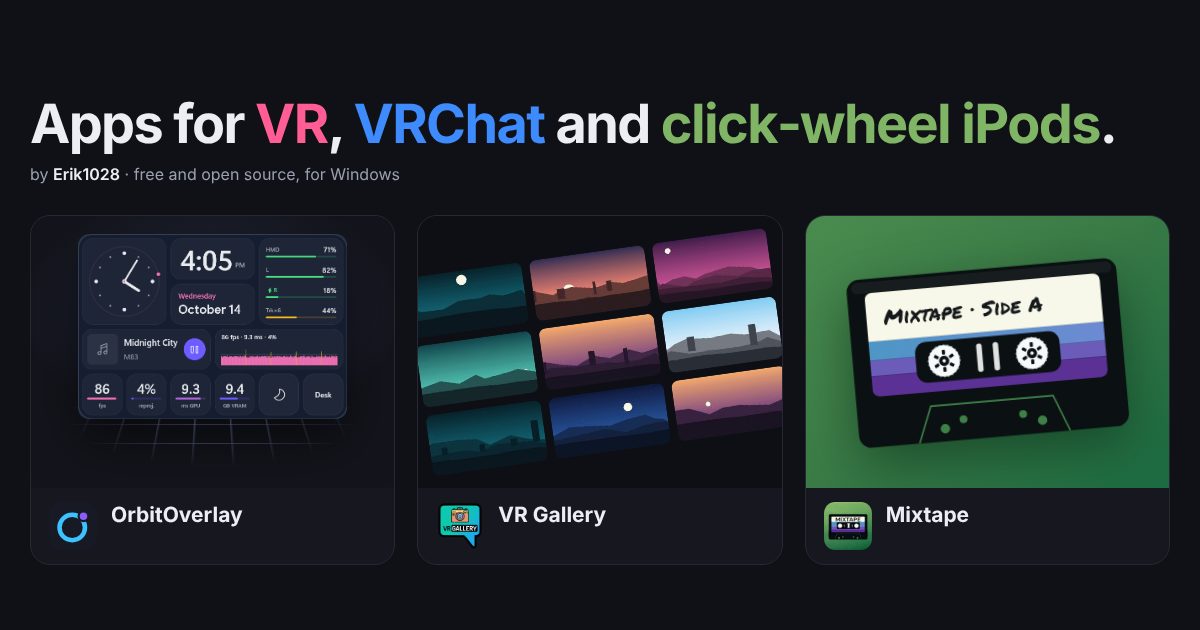
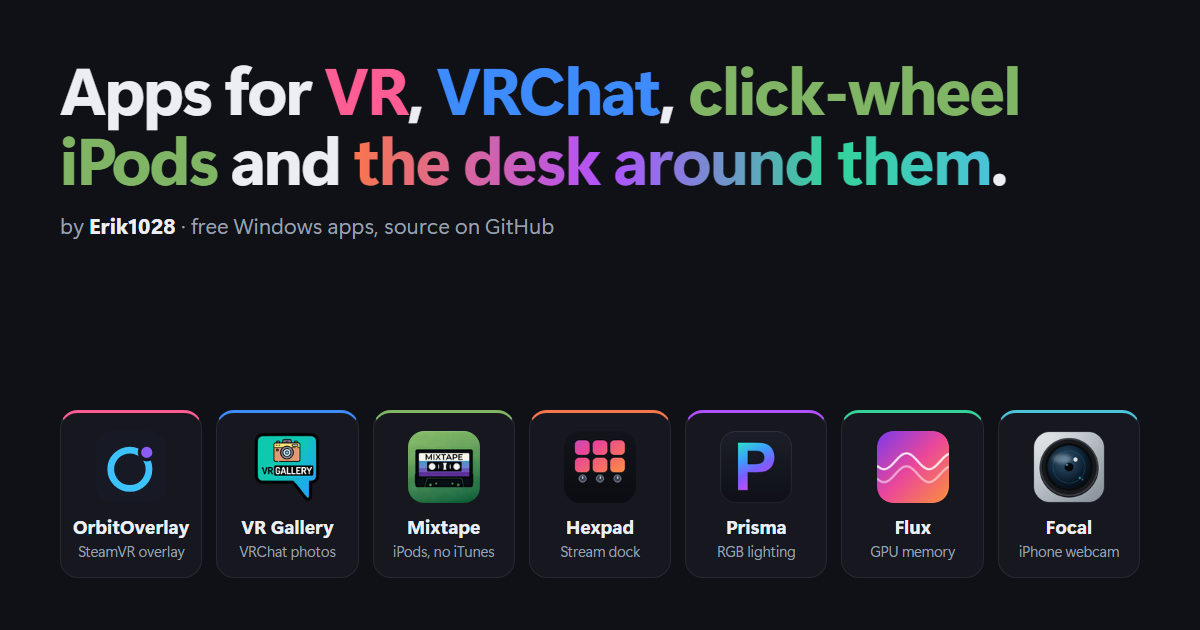
Add Hexpad, Prisma, Flux and Focal to the index
Seven apps now: OrbitOverlay's card spans two columns so they fill two
rows of four (two columns on tablets, one on phones). The new cards show
each thing itself in its app's colour - Hexpad's keys as Hexpad renders
them (falling asleep into its synthwave clock on hover), Prisma's RGB
fans, Flux's own window with demo data, Focal's iPhone filming for the
PC - and get their version and date from GitHub like the others. The
headline, description, structured data, sitemap and link preview now
cover all seven; the byline no longer says "open source" for all of them,
since Hexpad has no licence file yet. The old 256 px card icons are now
96 px.

diff --git a/index.html b/index.html
@@ -3,25 +3,27 @@
 <head>
 <meta charset="utf-8">
 <meta name="viewport" content="width=device-width, initial-scale=1">
-<title>Erik1028 · apps for VR, VRChat and click-wheel iPods</title>
-<meta name="description" content="Apps for VR, VRChat and click-wheel iPods by Erik1028: OrbitOverlay, VR Gallery and Mixtape. Free and open source, for Windows.">
+<title>Erik1028 · apps for VR, VRChat, iPods and the desk around them</title>
+<meta name="description" content="Free Windows apps by Erik1028: OrbitOverlay (SteamVR overlay), VR Gallery (VRChat photo album), Mixtape (click-wheel iPods), Hexpad (Ajazz stream dock), Prisma (RGB lighting), Flux (GPU memory monitor) and Focal (iPhone as a webcam).">
 <link rel="canonical" href="https://erik1028.github.io/">
 <meta name="author" content="Erik1028">
 <meta property="og:type" content="website">
 <meta property="og:site_name" content="Erik1028">
-<meta property="og:title" content="Apps for VR, VRChat and click-wheel iPods">
-<meta property="og:description" content="Apps for VR, VRChat and click-wheel iPods: OrbitOverlay, VR Gallery and Mixtape. Free and open source, for Windows.">
+<meta property="og:title" content="Apps for VR, VRChat, iPods and the desk around them">
+<meta property="og:description" content="OrbitOverlay, VR Gallery, Mixtape, Hexpad, Prisma, Flux and Focal: free Windows apps by Erik1028.">
 <meta property="og:image" content="https://erik1028.github.io/og.png">
 <meta property="og:url" content="https://erik1028.github.io/">
 <meta name="twitter:card" content="summary_large_image">
 <meta name="theme-color" content="#101116">
-<script type="application/ld+json">{"@context": "https://schema.org", "@graph": [{"@type": "WebSite", "@id": "https://erik1028.github.io/#site", "name": "Erik1028", "url": "https://erik1028.github.io/", "inLanguage": "en", "author": {"@id": "https://erik1028.github.io/#erik"}}, {"@type": "Person", "@id": "https://erik1028.github.io/#erik", "name": "Erik1028", "url": "https://github.com/Erik1028", "sameAs": ["https://github.com/Erik1028"]}, {"@type": "ItemList", "name": "Apps by Erik1028", "itemListElement": [{"@type": "ListItem", "position": 1, "name": "OrbitOverlay", "url": "https://erik1028.github.io/OrbitOverlay/"}, {"@type": "ListItem", "position": 2, "name": "VR Gallery", "url": "https://erik1028.github.io/VRGallery/"}, {"@type": "ListItem", "position": 3, "name": "Mixtape", "url": "https://erik1028.github.io/Mixtape/"}]}]}</script>
+<script type="application/ld+json">{"@context": "https://schema.org", "@graph": [{"@type": "WebSite", "@id": "https://erik1028.github.io/#site", "name": "Erik1028", "url": "https://erik1028.github.io/", "inLanguage": "en", "author": {"@id": "https://erik1028.github.io/#erik"}}, {"@type": "Person", "@id": "https://erik1028.github.io/#erik", "name": "Erik1028", "url": "https://github.com/Erik1028", "sameAs": ["https://github.com/Erik1028"]}, {"@type": "ItemList", "name": "Apps by Erik1028", "itemListElement": [{"@type": "ListItem", "position": 1, "name": "OrbitOverlay", "url": "https://erik1028.github.io/OrbitOverlay/"}, {"@type": "ListItem", "position": 2, "name": "VR Gallery", "url": "https://erik1028.github.io/VRGallery/"}, {"@type": "ListItem", "position": 3, "name": "Mixtape", "url": "https://erik1028.github.io/Mixtape/"}, {"@type": "ListItem", "position": 4, "name": "Hexpad", "url": "https://erik1028.github.io/ajazz-dock/"}, {"@type": "ListItem", "position": 5, "name": "Prisma", "url": "https://erik1028.github.io/Prisma/"}, {"@type": "ListItem", "position": 6, "name": "Flux", "url": "https://erik1028.github.io/Flux/"}, {"@type": "ListItem", "position": 7, "name": "Focal", "url": "https://erik1028.github.io/focal/"}]}]}</script>
 <link rel="icon" href="img/orbitoverlay.svg" type="image/svg+xml">
 <script>try{if(!matchMedia("(prefers-reduced-motion: reduce)").matches)document.documentElement.classList.add("motion")}catch(e){}</script>
 <link rel="preload" href="fonts/permanent-marker.woff2" as="font" type="font/woff2" crossorigin>
 <style>
-/* An index of three apps. Each card shows the thing itself (the watch over a VR floor, a wall of VRChat photos,
-   a hand-labelled tape) in its own app's accent; the page around them stays quiet. */
+/* An index of the apps. Each card shows the thing itself (the watch over a VR floor, a wall of VRChat photos,
+   a hand-labelled tape, the stream dock's keys, RGB fans, Flux's own window, a phone filming) in its own
+   app's accent; the page around them stays quiet. OrbitOverlay's card is twice as wide, so the seven fill
+   two rows of four. */
 @font-face{font-family:"Permanent Marker";src:url(fonts/permanent-marker.woff2) format("woff2");font-display:swap}
 :root{
   color-scheme:dark;
@@ -33,13 +35,18 @@
 *{box-sizing:border-box}
 body{margin:0;background:var(--bg);color:var(--text);font-family:var(--sans);font-size:17px;line-height:1.55;-webkit-font-smoothing:antialiased}
 main{max-width:1180px;margin:0 auto;padding-block:72px 48px;padding-left:max(20px,env(safe-area-inset-left,0px));padding-right:max(20px,env(safe-area-inset-right,0px))}
-h1{font-family:var(--display);font-size:clamp(38px,6.2vw,76px);line-height:1.04;margin:0;letter-spacing:-0.03em;max-width:13em;text-wrap:balance}
+h1{font-family:var(--display);font-size:clamp(36px,5.4vw,66px);line-height:1.05;margin:0;letter-spacing:-0.03em;max-width:17em;text-wrap:balance}
 h1 span{color:var(--acc)}
+h1 .desk{background:linear-gradient(90deg,#f8764f,#b151ff 40%,#34d399 75%,#4cc3d9);-webkit-background-clip:text;background-clip:text;color:transparent;-webkit-box-decoration-break:clone;box-decoration-break:clone}
 .by{color:var(--dim);margin:18px 0 0;font-size:17px}
 .by a{color:var(--text);text-decoration:none;font-weight:600}
 .by a:hover{text-decoration:underline}
-.apps{display:grid;grid-template-columns:repeat(3,minmax(0,1fr));gap:22px;margin-top:48px}
-@media (max-width:900px){.apps{grid-template-columns:1fr;max-width:560px}}
+.apps{display:grid;grid-template-columns:repeat(4,minmax(0,1fr));gap:22px;margin-top:48px}
+.app.wide{grid-column:span 2}
+.app.wide .visual{aspect-ratio:auto;flex:1;min-height:200px}
+@media (min-width:1101px){.app:not(.wide) .meta{grid-template-columns:40px minmax(0,1fr);gap:12px;padding:16px 16px 18px}.app:not(.wide) .meta img{width:40px;height:40px;border-radius:9px}}
+@media (max-width:1100px){.apps{grid-template-columns:repeat(2,minmax(0,1fr))}}
+@media (max-width:640px){.apps{grid-template-columns:1fr;max-width:560px}.app.wide{grid-column:auto}.app.wide .visual{aspect-ratio:4/3;flex:none;min-height:0}}
 
 .app{position:relative;background:var(--card);border:1px solid var(--line);border-radius:20px;overflow:hidden;display:flex;flex-direction:column;
   transition:transform .35s cubic-bezier(.2,.7,.2,1),border-color .35s,box-shadow .35s}
@@ -82,6 +89,56 @@ h2 a:focus-visible{outline:0}
 .reel{transform-box:fill-box;transform-origin:center}
 .app:hover .reel,.app:focus-within .reel{animation:reel 1.4s linear infinite}
 @keyframes reel{to{transform:rotate(360deg)}}
+.app.wide .v-orbit img{width:auto;height:84%;max-width:80%;margin-top:-5%}
+
+/* Hexpad: the stream dock, its keys rendered by Hexpad itself; on hover they fall asleep into an idle clock */
+.v-hexpad{background:radial-gradient(80% 70% at 60% 30%,#3a1730,#141118 70%)}
+.v-hexpad .dock{display:grid;grid-template-columns:minmax(0,1fr) auto;gap:7% 7%;align-items:center;width:84%;padding:5.5% 6%;border-radius:16px;
+  background:linear-gradient(160deg,#202027,#0f0f13);border:1px solid #2d2d36;box-shadow:0 18px 36px rgba(0,0,0,.55);transform:rotate(-4deg)}
+.v-hexpad .keys{position:relative;border-radius:5px;overflow:hidden;background:#000;box-shadow:0 0 0 2px #050506}
+.v-hexpad .keys img{width:100%;height:auto;transition:opacity .5s ease}
+.v-hexpad .keys img + img{position:absolute;inset:0;opacity:0}
+.app:hover .v-hexpad .keys img + img,.app:focus-within .v-hexpad .keys img + img{opacity:1}
+.v-hexpad .knobs{display:flex;flex-direction:column;align-items:center;gap:10px}
+.v-hexpad .knobs i{display:block;width:30px;aspect-ratio:1;border-radius:50%;background:radial-gradient(circle at 35% 30%,#3d3d48,#16161b 65%);box-shadow:0 3px 8px rgba(0,0,0,.6),0 0 0 1.5px #0a0a0c;position:relative;transition:transform .7s cubic-bezier(.2,.7,.2,1)}
+.v-hexpad .knobs i:first-child{width:44px}
+.v-hexpad .knobs i::after{content:"";position:absolute;left:50%;top:10%;width:2px;height:24%;margin-left:-1px;border-radius:1px;background:#d0d0d8}
+.app:hover .v-hexpad .knobs i{transform:rotate(70deg)}
+
+/* Prisma: a case window of RGB fans and a light strip; on hover the colours run */
+.v-prisma{background:radial-gradient(70% 60% at 50% 40%,#1e1838,#0f0f17 75%)}
+.v-prisma .rig{width:82%;display:flex;flex-direction:column;gap:12%;align-items:center}
+.v-prisma .fans{display:flex;gap:6%;width:100%;justify-content:center}
+.v-prisma .fan{position:relative;width:29%;aspect-ratio:1;border-radius:50%;background:#0b0b10;box-shadow:0 10px 24px rgba(0,0,0,.5)}
+.v-prisma .fan::before{content:"";position:absolute;inset:0;border-radius:50%;
+  background:conic-gradient(from var(--a,0deg),#ff4d6d,#ffb84d,#9dff6b,#4dfff0,#5a80ff,#b151ff,#ff4d6d);
+  -webkit-mask:radial-gradient(closest-side,transparent 72%,#000 74%,#000 96%,transparent 98%);mask:radial-gradient(closest-side,transparent 72%,#000 74%,#000 96%,transparent 98%);
+  filter:drop-shadow(0 0 6px rgba(177,81,255,.55))}
+.v-prisma .fan::after{content:"";position:absolute;inset:24%;border-radius:50%;
+  background:repeating-conic-gradient(from 10deg,#1b1b24 0 22deg,#101016 22deg 45deg);box-shadow:inset 0 0 0 4px #15151c}
+.v-prisma .fan:nth-child(2)::before{--a:120deg}.v-prisma .fan:nth-child(3)::before{--a:240deg}
+.v-prisma .strip{width:100%;height:12px;border-radius:6px;background:linear-gradient(90deg,#ff4d6d,#ffb84d,#9dff6b,#4dfff0,#5a80ff,#b151ff,#ff4d6d,#ffb84d,#9dff6b);background-size:200% 100%;
+  box-shadow:0 0 14px rgba(90,128,255,.55)}
+.app:hover .v-prisma .fan::before,.app:focus-within .v-prisma .fan::before{animation:spin 2.4s linear infinite}
+.app:hover .v-prisma .fan::after,.app:focus-within .v-prisma .fan::after{animation:spin 1.1s linear infinite}
+.app:hover .v-prisma .strip,.app:focus-within .v-prisma .strip{animation:flow 2.4s linear infinite}
+@keyframes spin{to{transform:rotate(360deg)}}
+@keyframes flow{to{background-position:-100% 0}}
+
+/* Flux: its own window, with made-up numbers */
+.v-flux{background:linear-gradient(160deg,#10231b,#0a0e0c 70%);align-items:flex-start}
+.v-flux img{width:104%;max-width:none;margin:10% 0 0 9%;border-radius:10px;border:1px solid #24312c;box-shadow:0 18px 40px rgba(0,0,0,.6);
+  transform:rotate(-3deg);transform-origin:0 0;transition:transform .6s cubic-bezier(.2,.7,.2,1)}
+.app:hover .v-flux img{transform:rotate(-3deg) translate(-4%,-3%)}
+
+/* Focal: an iPhone sending its camera to the PC over Wi-Fi */
+.v-focal{background:radial-gradient(75% 65% at 50% 35%,#16303a,#0d1117 75%)}
+.v-focal svg{width:86%;height:auto}
+.v-focal .wave{opacity:.35}
+.app:hover .v-focal .wave,.app:focus-within .v-focal .wave{animation:wave 1.4s ease-in-out infinite}
+.app:hover .v-focal .w2,.app:focus-within .v-focal .w2{animation-delay:.2s}
+.app:hover .v-focal .w3,.app:focus-within .v-focal .w3{animation-delay:.4s}
+@keyframes wave{50%{opacity:1}}
 
 /* motion: the headline and the cards rise in at load on wide screens; on phones the cards rise in as you scroll to them */
 /* scroll motion (motion.js): only when the script runs and motion is allowed */
@@ -92,6 +149,7 @@ h2 a:focus-visible{outline:0}
 @media (min-width:901px){
   .motion .app{animation:rise 1s cubic-bezier(.2,.7,.2,1) backwards}
   .motion .app:nth-child(1){animation-delay:.22s}.motion .app:nth-child(2){animation-delay:.34s}.motion .app:nth-child(3){animation-delay:.46s}
+  .motion .app:nth-child(4){animation-delay:.52s}.motion .app:nth-child(5){animation-delay:.6s}.motion .app:nth-child(6){animation-delay:.68s}.motion .app:nth-child(7){animation-delay:.76s}
 }
 @keyframes rise{from{opacity:0;transform:translateY(32px)}}
 /* once the entrance has played it is taken off, so a later resize or re-layout can never replay it */
@@ -99,17 +157,18 @@ h2 a:focus-visible{outline:0}
 .motion .app.done{transition:transform .35s cubic-bezier(.2,.7,.2,1),border-color .35s,box-shadow .35s}
 footer{margin-top:44px;color:var(--dim);font-size:14.5px}
 footer a{color:var(--dim)}
-@media (prefers-reduced-motion:reduce){h1,.by,.app{animation:none!important}.app,.v-orbit img,.v-gallery .wall{transition:none}.app:hover .reel,.app:focus-within .reel{animation:none}}
+@media (prefers-reduced-motion:reduce){h1,.by,.app{animation:none!important}.app,.v-orbit img,.v-gallery .wall,.v-flux img,.v-hexpad .keys img,.v-hexpad .knobs i{transition:none}
+  .app:hover .reel,.app:focus-within .reel,.v-prisma .fan::before,.v-prisma .fan::after,.v-prisma .strip,.v-focal .wave{animation:none!important}}
 </style>
 </head>
 <body>
 <main>
-<h1>Apps for <span style="--acc:#ff5d93">VR</span>, <span style="--acc:#3d8bfd">VRChat</span> and <span style="--acc:#7fb564">click&#8209;wheel iPods</span>.</h1>
-<p class="by">by <a href="https://github.com/Erik1028">Erik1028</a> · free and open source, for Windows</p>
+<h1>Apps for <span style="--acc:#ff5d93">VR</span>, <span style="--acc:#3d8bfd">VRChat</span>, <span style="--acc:#7fb564">click&#8209;wheel iPods</span> and <span class="desk">the desk around them</span>.</h1>
+<p class="by">by <a href="https://github.com/Erik1028">Erik1028</a> · free Windows apps, source on GitHub</p>
 
-<div class="apps" data-stagger="110">
+<div class="apps" data-stagger="90">
 
-<article class="app" style="--acc:#ff5d93">
+<article class="app wide" style="--acc:#ff5d93">
 <div class="visual v-orbit" aria-hidden="true"><img src="img/watch.png" width="639" height="439" alt=""></div>
 <div class="meta"><img src="img/orbitoverlay.svg" width="48" height="48" alt=""><div>
 <h2><a href="https://erik1028.github.io/OrbitOverlay/">OrbitOverlay</a></h2>
@@ -155,6 +214,72 @@ footer a{color:var(--dim)}
 <span class="rel" data-repo="Erik1028/Mixtape"></span>
 <p>Your click-wheel iPod on Windows, without iTunes.</p>
 <span class="links"><a href="https://erik1028.github.io/Mixtape/">Website</a> · <a href="https://github.com/Erik1028/Mixtape">GitHub</a></span>
+</div></div>
+</article>
+
+<article class="app" style="--acc:#f8764f">
+<div class="visual v-hexpad" aria-hidden="true"><div class="dock"><div class="keys"><img src="img/hexpad-keys.webp" width="564" height="370" alt=""><img src="img/hexpad-idle.webp" width="564" height="370" alt="" loading="lazy"></div><div class="knobs"><i></i><i></i><i></i></div></div></div>
+<div class="meta"><img src="img/hexpad.png" width="48" height="48" alt=""><div>
+<h2><a href="https://erik1028.github.io/ajazz-dock/">Hexpad</a></h2>
+<span class="rel" data-repo="Erik1028/ajazz-dock"></span>
+<p>An app for the Ajazz AKP03E stream dock: any action on any key or knob, live keys and idle clocks.</p>
+<span class="links"><a href="https://erik1028.github.io/ajazz-dock/">Website</a> · <a href="https://github.com/Erik1028/ajazz-dock">GitHub</a></span>
+</div></div>
+</article>
+
+<article class="app" style="--acc:#b151ff">
+<div class="visual v-prisma" aria-hidden="true"><div class="rig"><div class="fans"><span class="fan"></span><span class="fan"></span><span class="fan"></span></div><div class="strip"></div></div></div>
+<div class="meta"><img src="img/prisma.png" width="48" height="48" alt=""><div>
+<h2><a href="https://erik1028.github.io/Prisma/">Prisma</a></h2>
+<span class="rel" data-repo="Erik1028/Prisma"></span>
+<p>All the RGB lighting in your PC from one app: motherboard, RAM, GPU, fans, keyboard and mouse.</p>
+<span class="links"><a href="https://erik1028.github.io/Prisma/">Website</a> · <a href="https://github.com/Erik1028/Prisma">GitHub</a></span>
+</div></div>
+</article>
+
+<article class="app" style="--acc:#34d399">
+<div class="visual v-flux" aria-hidden="true"><img src="img/flux-window.webp" width="720" height="470" alt="" loading="lazy"></div>
+<div class="meta"><img src="img/flux.png" width="48" height="48" alt=""><div>
+<h2><a href="https://erik1028.github.io/Flux/">Flux</a></h2>
+<span class="rel" data-repo="Erik1028/Flux"></span>
+<p>A tiny monitor for your graphics card's memory: which apps hold it, and a ✕ to end one.</p>
+<span class="links"><a href="https://erik1028.github.io/Flux/">Website</a> · <a href="https://github.com/Erik1028/Flux">GitHub</a></span>
+</div></div>
+</article>
+
+<article class="app" style="--acc:#4cc3d9">
+<div class="visual v-focal" aria-hidden="true"><svg viewBox="0 0 360 240" aria-hidden="true">
+<defs>
+<linearGradient id="fcBody" x1="0" y1="0" x2="1" y2="1"><stop offset="0" stop-color="#e9edf0"/><stop offset="1" stop-color="#aab3bb"/></linearGradient>
+<radialGradient id="fcLens" cx=".4" cy=".35" r=".7"><stop offset="0" stop-color="#2b4d66"/><stop offset=".55" stop-color="#10273a"/><stop offset="1" stop-color="#050a10"/></radialGradient>
+<linearGradient id="fcScreen" x1="0" y1="0" x2="0" y2="1"><stop offset="0" stop-color="#2a6f86"/><stop offset="1" stop-color="#17324a"/></linearGradient>
+</defs>
+<g transform="rotate(-8 92 128)">
+<rect x="44" y="34" width="98" height="188" rx="20" fill="url(#fcBody)"/>
+<rect x="44" y="34" width="98" height="188" rx="20" fill="none" stroke="#7c8790" stroke-width="2"/>
+<rect x="54" y="44" width="54" height="54" rx="14" fill="#c3cad0" stroke="#8f99a2" stroke-width="1.5"/>
+<circle cx="69" cy="59" r="10.5" fill="#0b0d10"/><circle cx="69" cy="59" r="7.5" fill="url(#fcLens)"/><circle cx="66" cy="56" r="1.8" fill="#9fe7f0"/>
+<circle cx="69" cy="83" r="10.5" fill="#0b0d10"/><circle cx="69" cy="83" r="7.5" fill="url(#fcLens)"/><circle cx="66" cy="80" r="1.8" fill="#9fe7f0"/>
+<circle cx="93" cy="71" r="10.5" fill="#0b0d10"/><circle cx="93" cy="71" r="7.5" fill="url(#fcLens)"/><circle cx="90" cy="68" r="1.8" fill="#9fe7f0"/>
+</g>
+<g fill="none" stroke="#4cc3d9" stroke-width="5" stroke-linecap="round">
+<path class="wave w1" d="M160 116 a14 14 0 0 1 0 22"/>
+<path class="wave w2" d="M170 106 a28 28 0 0 1 0 42"/>
+<path class="wave w3" d="M180 96 a42 42 0 0 1 0 62"/>
+</g>
+<rect x="206" y="62" width="128" height="88" rx="8" fill="#0b0e12" stroke="#2c3440" stroke-width="2"/>
+<rect x="212" y="68" width="116" height="76" rx="4" fill="url(#fcScreen)"/>
+<circle cx="270" cy="98" r="14" fill="#9cc4d2"/>
+<path d="M244 144 q26 -30 52 0 z" fill="#9cc4d2"/>
+<circle cx="318" cy="76" r="3.5" fill="#ff5a5f"/>
+<path d="M258 150 h24 l4 18 h-32 z" fill="#1b2129"/>
+<rect x="244" y="168" width="52" height="5" rx="2.5" fill="#1b2129"/>
+</svg></div>
+<div class="meta"><img src="img/focal.png" width="48" height="48" alt=""><div>
+<h2><a href="https://erik1028.github.io/focal/">Focal</a></h2>
+<span class="rel" data-repo="Erik1028/focal"></span>
+<p>Your iPhone as a wireless webcam for the PC, over Wi-Fi. Nothing to install on the phone.</p>
+<span class="links"><a href="https://erik1028.github.io/focal/">Website</a> · <a href="https://github.com/Erik1028/focal">GitHub</a></span>
 </div></div>
 </article>
 
